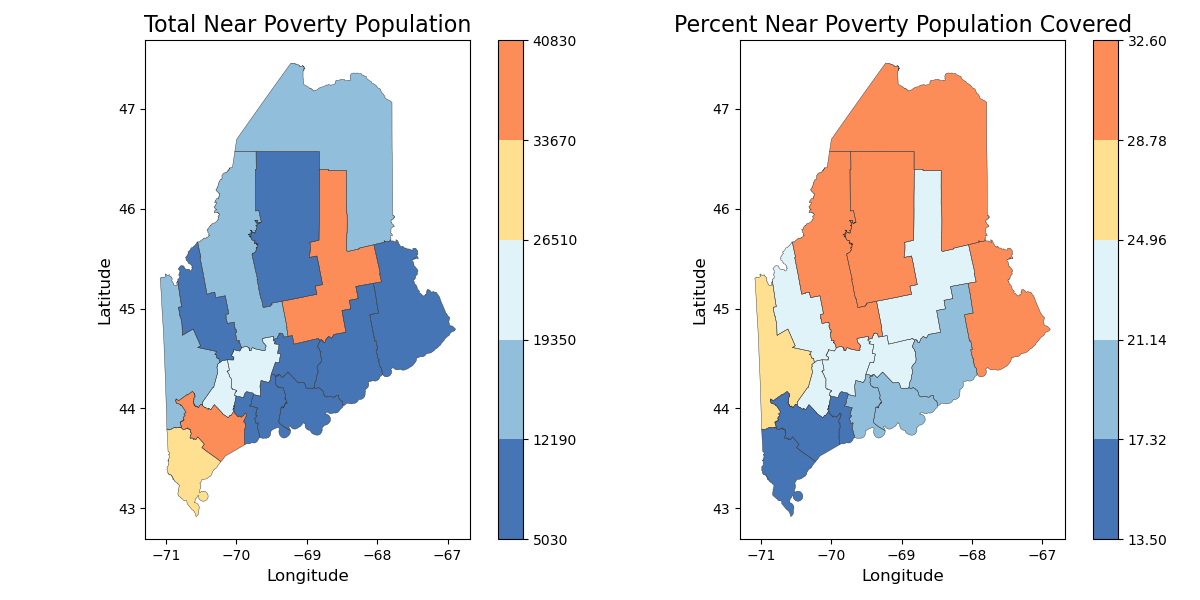
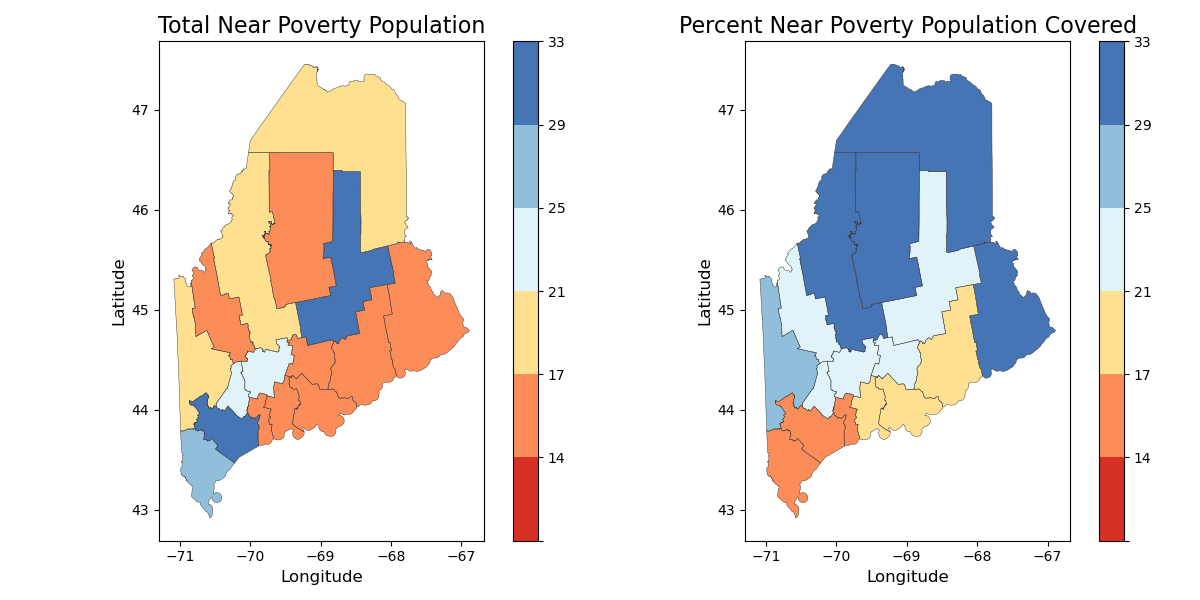
color mod to county

diff --git a/src/make_county_plots.py b/src/make_county_plots.py
@@ -30,23 +30,27 @@ def make_plot(gpd_obj, plot_obj):
         gpd_obj[plot_obj[index]] = pd.to_numeric(gpd_obj[plot_obj[index]], errors='coerce')
         gpd_obj[plot_obj[index]] = gpd_obj[plot_obj[index]].fillna(0)  # Data cleaning
     
-    inner_list = assign_colors.colors[0]
-    color_list = inner_list[:5]
+    color_list = assign_colors.colors[0][::-1]
 
     # Calculate the range for each color
     min_val = gpd_obj[plot_obj[0]].min()
     max_val = gpd_obj[plot_obj[0]].max()
     min_val2 = gpd_obj[plot_obj[2]].min()
     max_val2 = gpd_obj[plot_obj[2]].max()
-    interval = (max_val - min_val) / len(color_list)
-    interval2 = (max_val2 - min_val2) / len(color_list)
+    interval = (max_val - min_val) / (len(color_list)-1)
+    interval2 = (max_val2 - min_val2) / (len(color_list)-1)
 
     # Define color bins based on the range and color_list
-    color_bins_pop = [min_val + i * interval for i in range(len(color_list))]
+    color_bins_pop = [i * interval for i in range(len(color_list)-1)]
     color_bins_pop.append(max_val)  # Include the maximum value
-    color_bins_pct = [min_val2 + i * interval2 for i in range(len(color_list))]
+    color_bins_pct = [i * interval2 for i in range(len(color_list)-1)]
     color_bins_pct.append(max_val2)  # Include the maximum value
 
+    # Add a negative lower boundary (adjust as needed)
+    lower_boundary = -1
+    color_bins_pop.insert(0, lower_boundary)
+    color_bins_pct.insert(0, lower_boundary)
+    
     # Plotting combined data
     cmap_pop = mpl.colors.ListedColormap(color_list)
     norm_pop = mpl.colors.BoundaryNorm(color_bins_pop, cmap_pop.N)
@@ -55,19 +59,29 @@ def make_plot(gpd_obj, plot_obj):
     fig, ax = plt.subplots(nrows=1, ncols=2, figsize=(12, 6))
 
     # Left side of fig plot details
-    gpd_obj.plot(column=plot_obj[0], cmap=cmap_pop, norm=norm_pop, legend=True, figsize=(8,8), ax=ax[0])
+    gpd_obj.plot(column=plot_obj[0], cmap=cmap_pop, norm=norm_pop, figsize=(8,8), ax=ax[0])
     gpd_obj.boundary.plot(ax=ax[0], linewidth=0.3, edgecolor='#333')
     ax[0].set_title(plot_obj[1], fontsize=16)
     ax[0].set_xlabel('Longitude', fontsize=12)
     ax[0].set_ylabel('Latitude', fontsize=12)
     
+    color_bins_pct_str = [str(round(value)) for value in color_bins_pct]
+    color_bins_pct_str[0] = ''
+    colorbar = fig.colorbar(ax[0].collections[0], ax=ax[0])  # Assuming a single plot on the axes
+    colorbar.ax.set_yticklabels(color_bins_pct_str)  # Example: Set custom tick labels
+    
     # Right side of fig plot details
-    gpd_obj.plot(column=plot_obj[2], cmap=cmap_pct, norm=norm_pct, legend=True, figsize=(8,8), ax=ax[1])
+    gpd_obj.plot(column=plot_obj[2], cmap=cmap_pct, norm=norm_pct, figsize=(8,8), ax=ax[1])
     gpd_obj.boundary.plot(ax=ax[1], linewidth=0.3, edgecolor='#333')
     ax[1].set_title(plot_obj[3], fontsize=16)
     ax[1].set_xlabel('Longitude', fontsize=12)
     ax[1].set_ylabel('Latitude', fontsize=12)
 
+    color_bins_pct_str = [str(round(value)) for value in color_bins_pct]
+    color_bins_pct_str[0] = ''
+    colorbar = fig.colorbar(ax[1].collections[0], ax=ax[1])  # Assuming a single plot on the axes
+    colorbar.ax.set_yticklabels(color_bins_pct_str)  # Example: Set custom tick labels
+    
     # Formatting
     plt.tight_layout()
         
